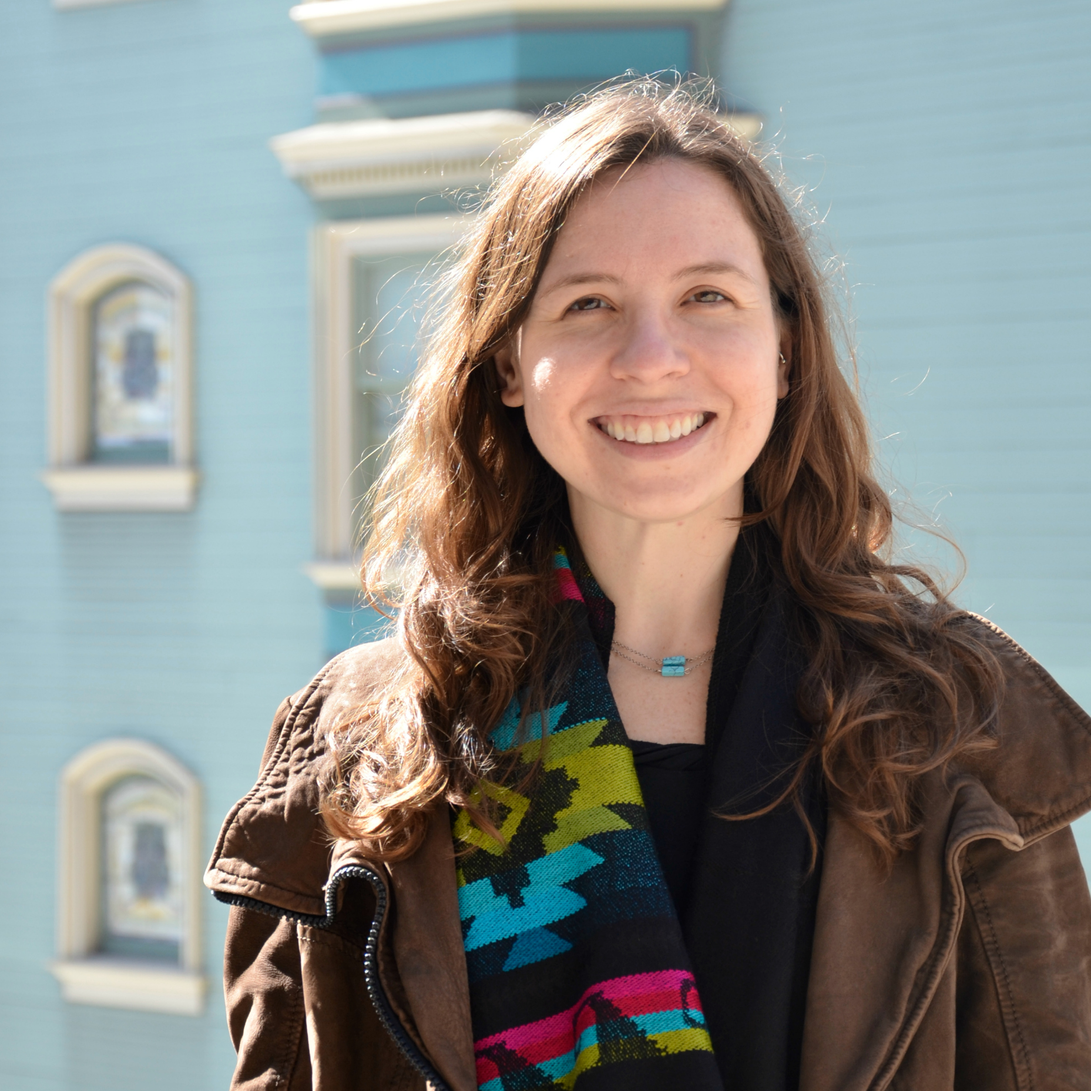
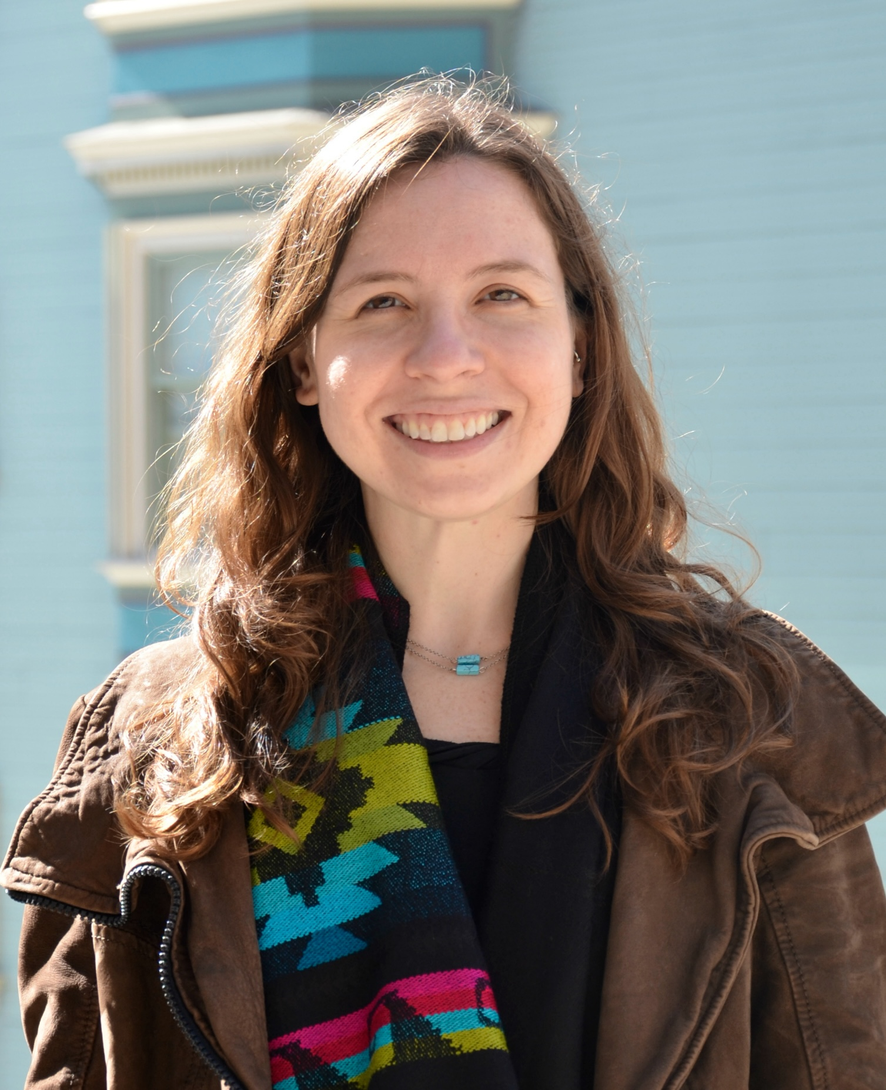
Added Sponsors and Board Member

diff --git a/script.js b/script.js
@@ -15,13 +15,13 @@ const translationsEN = {
     'apply-button-2': 'Apply',
     'apply-button-3': 'Next seminars',
     'team-title': 'Team',
-    'title-founder': 'Founder | Head of School',
-    'title-cofounder1-name': 'To be announced...',
+    'title-founder': 'Founder and Executive Director',
+    'title-cofounder1-name': 'Rachel Rybarczyc',
     'title-cofounder2-name': 'To be announced...',
     'sponsors-title': 'Sponsors',
-    'name-sponsor1': 'To be announced...',
-    'name-sponsor2': 'To be announced...',
-    'name-sponsor3': 'To be announced...',
+    'name-sponsor1': '',
+    'name-sponsor2': '',
+    'name-sponsor3': '',
     'sponsors-description': 'If you wish to become a sponsor or support the project in any way, please',
     'contact-link': 'contact us.',
     'donate-title': 'Donate',
@@ -47,14 +47,14 @@ const translationsPT = {
     'apply-button-2': 'Participar',
     'apply-button-3': 'Próximos seminários',
     'team-title': 'Equipe',
-    'title-founder': 'Foundadora | Diretora Educacional',
-    'title-cofounder1-name': 'Em breve...',
+    'title-founder': 'Fundadora e Diretora Executiva',
+    'title-cofounder1-name': 'Rachel Rybarczyc',
     'title-cofounder2-name': 'Em breve...',
     'donate-title': 'Doar',
     'sponsors-title': 'Patrocinadores',
-    "name-sponsor1": 'Em breve...',
-    "name-sponsor2": 'Em breve...',
-    "name-sponsor3": 'Em breve...',
+    "name-sponsor1": '',
+    "name-sponsor2": '',
+    "name-sponsor3": '',
     'sponsors-description': 'Se você deseja se tornar um patrocinador ou apoiar o projeto de qualquer forma, por favor',
     'contact-link': 'entre em contato.',
     'donate-description': 'A prosperidade do Bitcoin, da Lightning Network e de outros softwares livres e de código aberto é significativamente ampliada pelos aspectos positivos da descentralização e diversidade. Estas tecnologias prosperam melhor quando há uma ampla e globalmente distribuída variedade de colaboradores, cada um trazendo suas perspectivas e experiências únicas para a mesa. Organizações como a nossa desempenham um papel crucial no aproveitamento desta diversidade. Nosso foco está na organização de treinamento e capacitação de desenvolvedores, aquisição de talentos, captação, e eficiente alocação de recursos. Nossos esforços são impulsionados por doações de indivíduos e empresas que compartilham nossa visão de diversificar o talento em engenharia no ecossistema do Bitcoin. Esta abordagem descentralizada não só garante um fluxo contínuo de melhorias no Bitcoin, mas também promove a criação de ferramentas que o tornam mais acessível para todos, em todos os lugares. Esta abordagem inclusiva não é apenas nossa força; é a própria base da nossa missão.',

diff --git a/index.html b/index.html
@@ -77,18 +77,15 @@
                     <a href="https://www.linkedin.com/in/lucianareyferreira/" target="_blank">
                     <img src="/headshot1.jpg"></a>
                     <h3 id="title-founder-name">Luciana Ferreira</h3>
-                    <h4 id="title-founder">Founder | Director of Education </h4>
+                    <h4 id="title-founder">Founder and Executive Director</h4>
                 </div>
                 <!-- Program 2 -->
                 <div class="program">
                 </a>
-                <h3 id="title-cofounder1-name">To be announced...</h3>
+                <img src="/boardmember.jpg"></a>
+                <h3 id="title-cofounder1-name">Rachel Rybarczyk</h3>
+                <h4 id="title-cofounder">Board Member</h4>
                 </div>
-                <!-- Program 3 -->
-                <div class="program">
-                    <h3 id="title-cofounder2-name">To be announced...</h3>
-                </div>
-                <!-- Repeat the content structure from the Programs section for now. You can modify this later. -->
             </div>
         </div>
     </div>
@@ -97,8 +94,9 @@
         <div class="container">
             <h1 id="sponsors-title">Sponsors</h1>
             <div class="team-list">
-                <div class="program">
+                <div class="program" style="display: flex; justify-content: center; width: 100%;">
                 </a>
+                <img src="/HRF_logo.png" style="margin: auto; width: 30%;"></a>
                 <h3 id="name-sponsor1">To be announced...</h3>
                 </div>
                 <!-- Program 2 -->

diff --git a/style.css b/style.css
@@ -324,4 +324,8 @@ footer p {
     font-size: 0.8em;
 }
 
-
+.sponsor-logo-container img {
+    display: block; /* Torna a imagem um bloco para permitir margens automáticas */
+    margin-left: auto; /* Centraliza a imagem horizontalmente */
+    margin-right: auto; /* Centraliza a imagem horizontalmente */
+}
